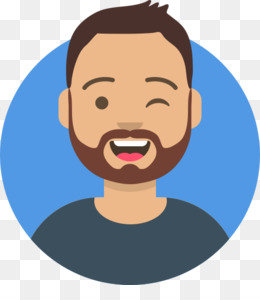
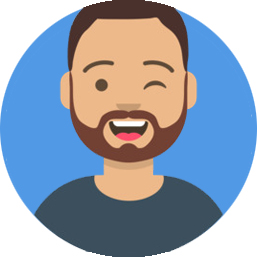
estilizando textos e lista

diff --git a/index.html b/index.html
@@ -8,7 +8,7 @@
 
   <body>
     <header>
-        <img src="avatar.jpg" alt="Ilustração do avatar">
+        <img src="avatar.jpg" alt="Ilustração do avatar" class="photo">
       <h1 id="title">Wagner dos Santos Lima</h1>
     </header>
     <section>
@@ -18,9 +18,9 @@
       <article class="post">
         <header>
           <h3 class="post_title">Post #1</h3>
-          <img src="postagem-1.jpg" alt="Editor de texto contendo código html">
+          <img src="postagem-1.jpg" alt="Editor de texto contendo código html" class="post_image">
         </header>
-        <p>
+        <p class="post_content">
           "Lorem ipsum dolor sit amet, <a href="#" target="_blank">consectetur adipiscing</a> elit, sed do
           eiusmod tempor incididunt ut <a href="mailto:wslmacieira@gmail.com">labore et dolore</a> magna aliqua. Ut enim ad
           minim veniam, quis nostrud exercitation ullamco laboris nisi ut
@@ -32,7 +32,7 @@
       </article>
     </section>
     <footer>
-        <ul>
+        <ul class="contacts_list">
             <li>
                 <a href="mailto:wslmacieira@gmail.com" target="_blank">wslmacieira</a>
             </li>

diff --git a/style.css b/style.css
@@ -1,21 +1,58 @@
 body {
   background: #ccc;
+  font-family: Verdana;
+}
+
+.photo {
+  border-radius: 50%;
 }
 
 #title,
 .subtitle,
 .post_title {
-  color: blue;
+  color: #505050;
+}
+
+#title {
+  font-size: 40px;
+  text-transform: uppercase;
+}
+
+a {
+  text-decoration: line-through;
+  color: #505050;
 }
 
 .post_title {
   font-size: 16px;
   font-style: italic;
+  margin: 0;
+  margin-bottom: 15px;
 }
 
 .post {
   background: #fff;
   padding: 10px;
-  border: 3px solid #000;
+  border: 3px solid #505050;
   margin: 10px;
+  border-radius: 5px;
+}
+
+.post_content {
+  margin: 0;
+  margin-bottom: 15px;
+  text-transform: capitalize;
+}
+.post_image {
+  margin: 0;
+  margin-bottom: 15px;
+}
+
+.contacts_list {
+  list-style: none;
+  padding-left: 15px;
+}
+
+.contacts_list li a {
+  text-decoration: none;
 }
